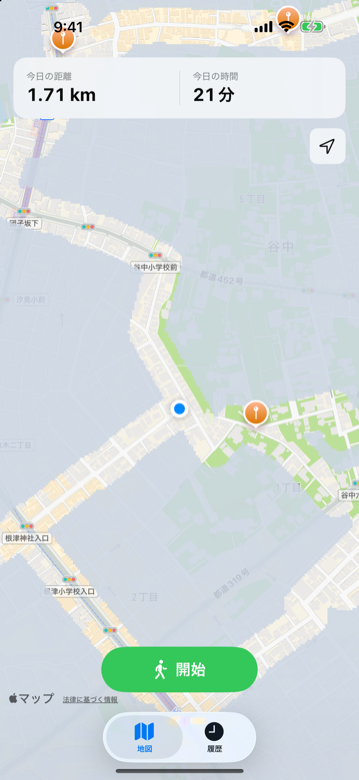
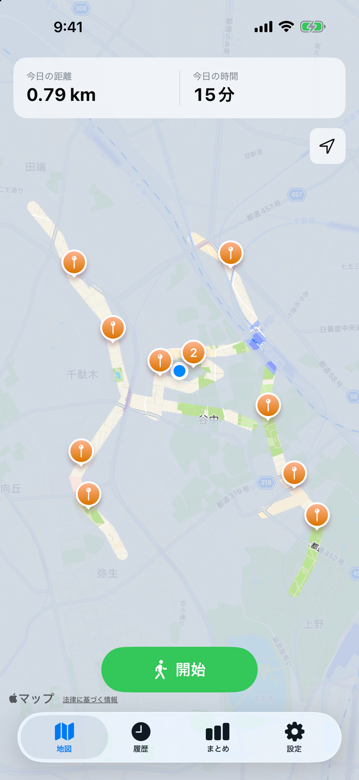
LP を ver-2.0 に合わせる(iCloud引き継ぎ・まとめ・絞り込み・タグと種類・料金と広告・スクショ差し替え)

Changed region(s): [[0.0, 0.0, 1.0, 1.0], [0.5515, 0.0923, 0.6128, 0.1538], [0.0306, 0.9231, 0.0613, 0.9538]]

diff --git a/index.html b/index.html
@@ -116,14 +116,14 @@
       MichiLog（ミチログ）は、歩いた道の霧が晴れていく地図に、その場で撮った写真とメモが残る散歩アプリです。
     </p>
     <a class="cta" id="cta-top" href="https://apps.apple.com/jp/app/michilog/id6819015225">App Store で見る</a>
-    <span class="cta-note">無料・広告なし</span>
+    <span class="cta-note">無料（アプリ内課金あり）</span>
   </div>
 </header>
 
 <section>
   <div class="wrap">
     <div class="row flip">
-      <div class="shot"><img src="images/shot-01-fog-map.png" alt="地図タブ。地図全体が薄いグレーの霧に覆われ、これまで歩いた道の周りだけが帯状に晴れて地図が見えている。上に今日の距離 1.71 km と今日の時間 21分、下に開始ボタン" loading="lazy"></div>
+      <div class="shot"><img src="images/shot-01-fog-map.png" alt="地図タブ。地図全体が薄いグレーの霧に覆われ、これまで歩いた道の周りだけが帯状に晴れて地図が見えている。オレンジのピンが点在し、上に今日の距離 0.79 km と今日の時間 15分、下に開始ボタン" loading="lazy"></div>
       <div>
         <h2>地図は最初、すべて霧の中</h2>
         <p>歩いた道の周りだけ霧が晴れ、晴れた範囲は<strong>これまでの散歩の積み重ね</strong>として広がっていきます。</p>
@@ -142,7 +142,7 @@
         <p>画面を閉じても、iPhone をロックしても記録は続きます。</p>
         <p class="sub" style="margin-bottom:0">電車や車など、歩く速さを超える移動が続いた区間は、ルート・距離・霧に入りません。</p>
       </div>
-      <div class="shot"><img src="images/shot-02-recording.png" alt="記録中の地図タブ。上に「記録中」と経過時間 0:06:08、距離 0.48 km。青い線で今歩いているルートが描かれ、その周りの霧が晴れている。下に終了ボタンとピンボタン" loading="lazy"></div>
+      <div class="shot"><img src="images/shot-02-recording.png" alt="記録中の地図タブ。上に「記録中」と経過時間と距離。青い線で今歩いているルートが描かれ、その周りの霧が晴れている。下に終了ボタンとピンボタン" loading="lazy"></div>
     </div>
   </div>
 </section>
@@ -155,6 +155,7 @@
         <h2>見つけたものを、その場所に残す</h2>
         <p>散歩中は、現在地にピンを打って写真とメモを残せます。写真もメモも任意なので、気になった場所にさっと印だけ付けることもできます。</p>
         <p>撮った写真は iPhone の写真アプリ（カメラロール）に保存され、<strong>アプリが持つのは写真への参照だけ</strong>です。</p>
+        <p>ピンには「景色」「猫」のようなタグを付けられます。タグは自分で追加・名前の変更・削除ができます。</p>
         <p class="sub" style="margin-bottom:0">写真アプリで消した写真は、MichiLog でも表示されなくなります。</p>
       </div>
     </div>
@@ -167,9 +168,10 @@
       <div>
         <h2>あの日の道を、もう一度</h2>
         <p>過去の散歩は一覧から選んで、ルートとピンを見返せます。</p>
+        <p>散歩を終えたら「散策」「通勤・通学」のような散歩の種類を選べます。種類も自分で追加できます。</p>
         <p>不要な散歩は削除でき、削除すると霧も残った散歩から作り直されます。</p>
       </div>
-      <div class="shot"><img src="images/shot-04-walk-detail.png" alt="散歩詳細。9月30日（水）の散歩のルートが地図に青い線で描かれ、ピンが2つ。下に 10:30〜10:49、距離 1.56 km、時間 19分、ピンのメモ2件" loading="lazy"></div>
+      <div class="shot"><img src="images/shot-04-walk-detail.png" alt="散歩詳細。9月29日（火）の散歩のルートが地図に青い線で描かれ、ピンが2つ。下に 10:05〜10:24、距離 1.00 km、時間 19分、散歩の種類「散策」、ピンのメモ2件" loading="lazy"></div>
     </div>
   </div>
 </section>
@@ -177,7 +179,7 @@
 <section>
   <div class="wrap">
     <div class="row flip">
-      <div class="shot"><img src="images/shot-05-history.png" alt="履歴タブ。散歩が新しい順に5件、日付と開始時刻、距離と時間が並んでいる" loading="lazy"></div>
+      <div class="shot"><img src="images/shot-05-history.png" alt="履歴タブ。散歩が新しい順に9件、日付と開始時刻、距離と時間、散歩の種類が並んでいる" loading="lazy"></div>
       <div>
         <h2>歩いた記録が、積み上がる</h2>
         <p>「履歴」タブに、散歩が新しい順に並びます。日付と開始時刻、距離と時間が1行に出ます。</p>
@@ -189,8 +191,49 @@
 
 <section>
   <div class="wrap">
+    <div class="row">
+      <div>
+        <h2>週・月・年ごとに、振り返る</h2>
+        <p>「まとめ」タブで、期間ごとの散歩の回数・距離・時間をグラフで見られます。散歩の種類別の内訳と、タグ別のピンの数も出ます。</p>
+        <p class="sub" style="margin-bottom:0">アプリ内課金（買い切り）で使える機能です。</p>
+      </div>
+      <div class="shot"><img src="images/shot-06-summary.png" alt="まとめタブの週の表示。9月28日〜10月4日に5回・3.82 km・1時間17分。曜日ごとの距離の棒グラフと、散歩の種類別の回数と距離" loading="lazy"></div>
+    </div>
+  </div>
+</section>
+
+<section>
+  <div class="wrap">
+    <div class="row flip">
+      <div class="shot"><img src="images/shot-07-filter.png" alt="履歴タブを散歩の種類「散策」とタグ「景色」で絞り込んだ表示。4件が並んでいる" loading="lazy"></div>
+      <div>
+        <h2>種類とタグで、記録を絞り込む</h2>
+        <p>履歴を散歩の種類とタグで絞り込めます。タグを複数選ぶと、どれかが付いた散歩が並びます。</p>
+        <p class="sub" style="margin-bottom:0">アプリ内課金（買い切り）で使える機能です。</p>
+      </div>
+    </div>
+  </div>
+</section>
+
+<section>
+  <div class="wrap">
+    <div class="row">
+      <div>
+        <h2>機種変更しても、引き継げる</h2>
+        <p>記録は iCloud で同じ Apple Account の iPhone どうしに自動で同期されます。<strong>購入しなくても使えます。</strong>アプリの中での操作は要りません。</p>
+        <p class="sub" style="margin-bottom:0">写真そのものは iCloud に送りません。別の iPhone で写真が見えるのは、iCloud 写真がオンのときです。</p>
+      </div>
+      <div class="shot"><img src="images/shot-08-settings.png" alt="設定タブ。散歩の種類とタグの一覧、iCloud 同期の欄に「iCloud と同期しています」と最終同期の時刻" loading="lazy"></div>
+    </div>
+  </div>
+</section>
+
+<section>
+  <div class="wrap">
     <h2>料金</h2>
-    <p>無料で使えます。広告もアプリ内課金もありません。</p>
+    <p>無料で使えます。記録・霧・ピン・履歴・iCloud での引き継ぎは、ずっと無料です。</p>
+    <p>購入していない間は、履歴・まとめ・設定の画面と、散歩を終えたあとに広告が出ます。地図の画面には出ません。</p>
+    <p>アプリ内課金（480円・買い切り）で、広告を消し、まとめ・履歴の絞り込み・6個目以降のタグと散歩の種類がまとめて使えるようになります。定期的な支払いはありません。</p>
   </div>
 </section>
 
@@ -199,7 +242,8 @@
     <h2>位置情報とプライバシー</h2>
     <ul>
       <li>位置情報は「使用中のみ許可」で使います。「常に許可」は求めません</li>
-      <li>記録したデータは iPhone の中に保存され、外部へ送ることはありません</li>
+      <li>記録したデータは iPhone とご自身の iCloud に保存され、開発者が受け取ることはありません</li>
+      <li>広告の表示のために、広告配信事業者（Google）が端末の識別子などを使います。トラッキングの許可は任意です</li>
       <li>アカウント登録は不要です</li>
     </ul>
     <div class="note">
@@ -213,7 +257,7 @@
     <h2>対応環境</h2>
     <ul>
       <li>iOS 17.0 以上の iPhone</li>
-      <li>記録は端末の中だけに保存されます。機種変更では引き継がれません</li>
+      <li>記録は iCloud で同じ Apple Account の iPhone に引き継がれます</li>
     </ul>
   </div>
 </section>
